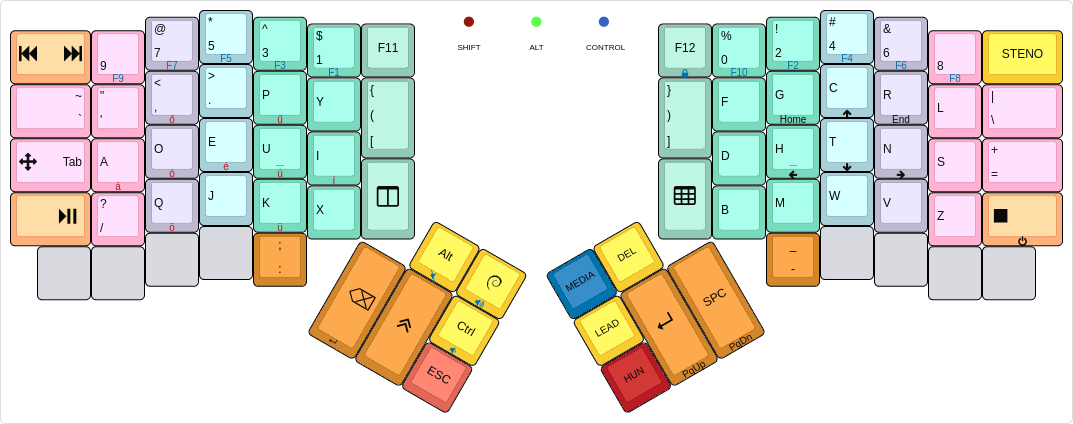
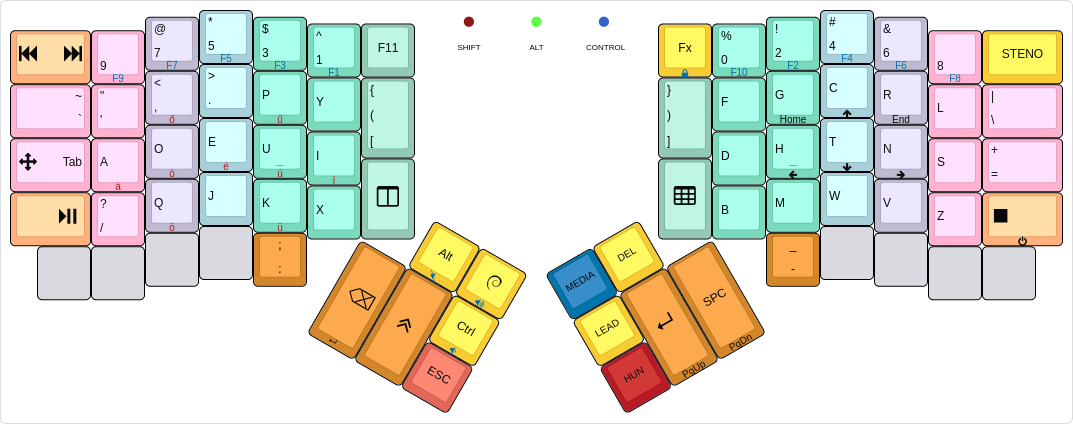
Swap $ and ^
Reaching `$` was a bit uncomfortable, yet, it is a symbol used often,
more often than `^`, so swap them, as the new positions are better for
`$`.

diff --git a/keymap.c b/keymap.c
@@ -536,10 +536,10 @@ static void ang_handle_num_row(uint8_t id, keyrecord_t *record) {
       kc = KC_8;
       break;
     case A_3:
-      kc = KC_6;
+      kc = KC_4;
       break;
     case A_1:
-      kc = KC_4;
+      kc = KC_6;
       break;
 
     case A_0:

diff --git a/NEWS.md b/NEWS.md
@@ -1,5 +1,13 @@
 <!-- -*- mode: markdown; fill-column: 8192 -*- -->
 
+## v1.11
+
+**UNRELEASED**
+
+### Overall changes
+
+* The `$` and `^` symbols on the number row were swapped on both the base and the ADORE layers.
+
 ## v1.10
 
 *2016-12-28*
